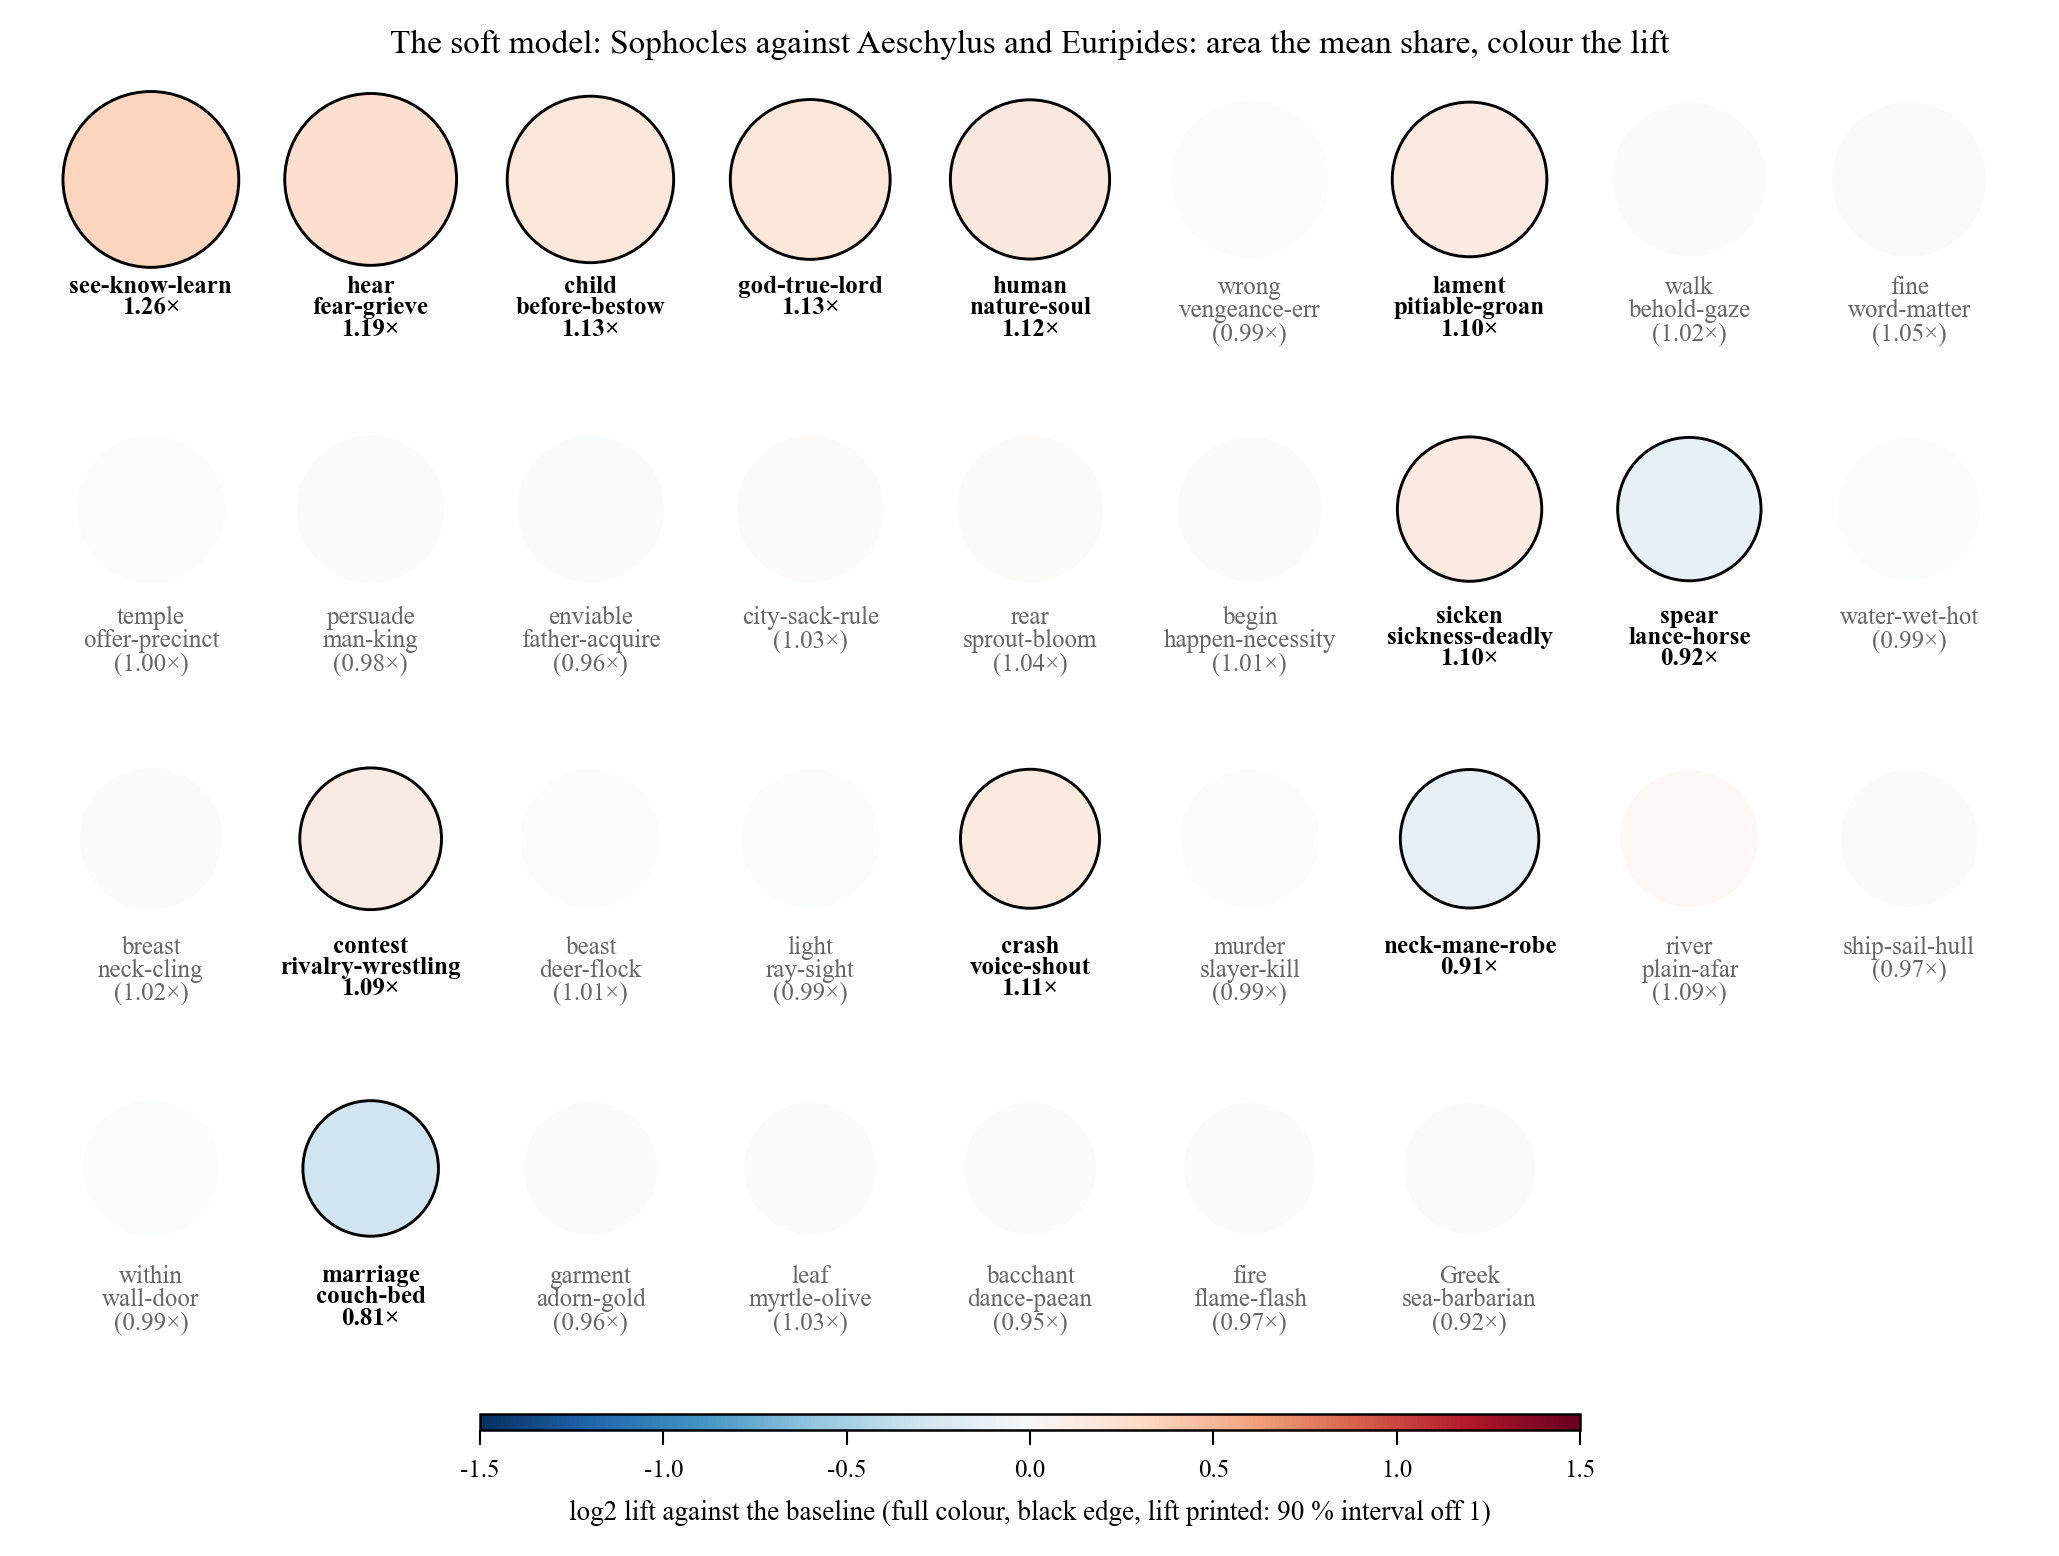
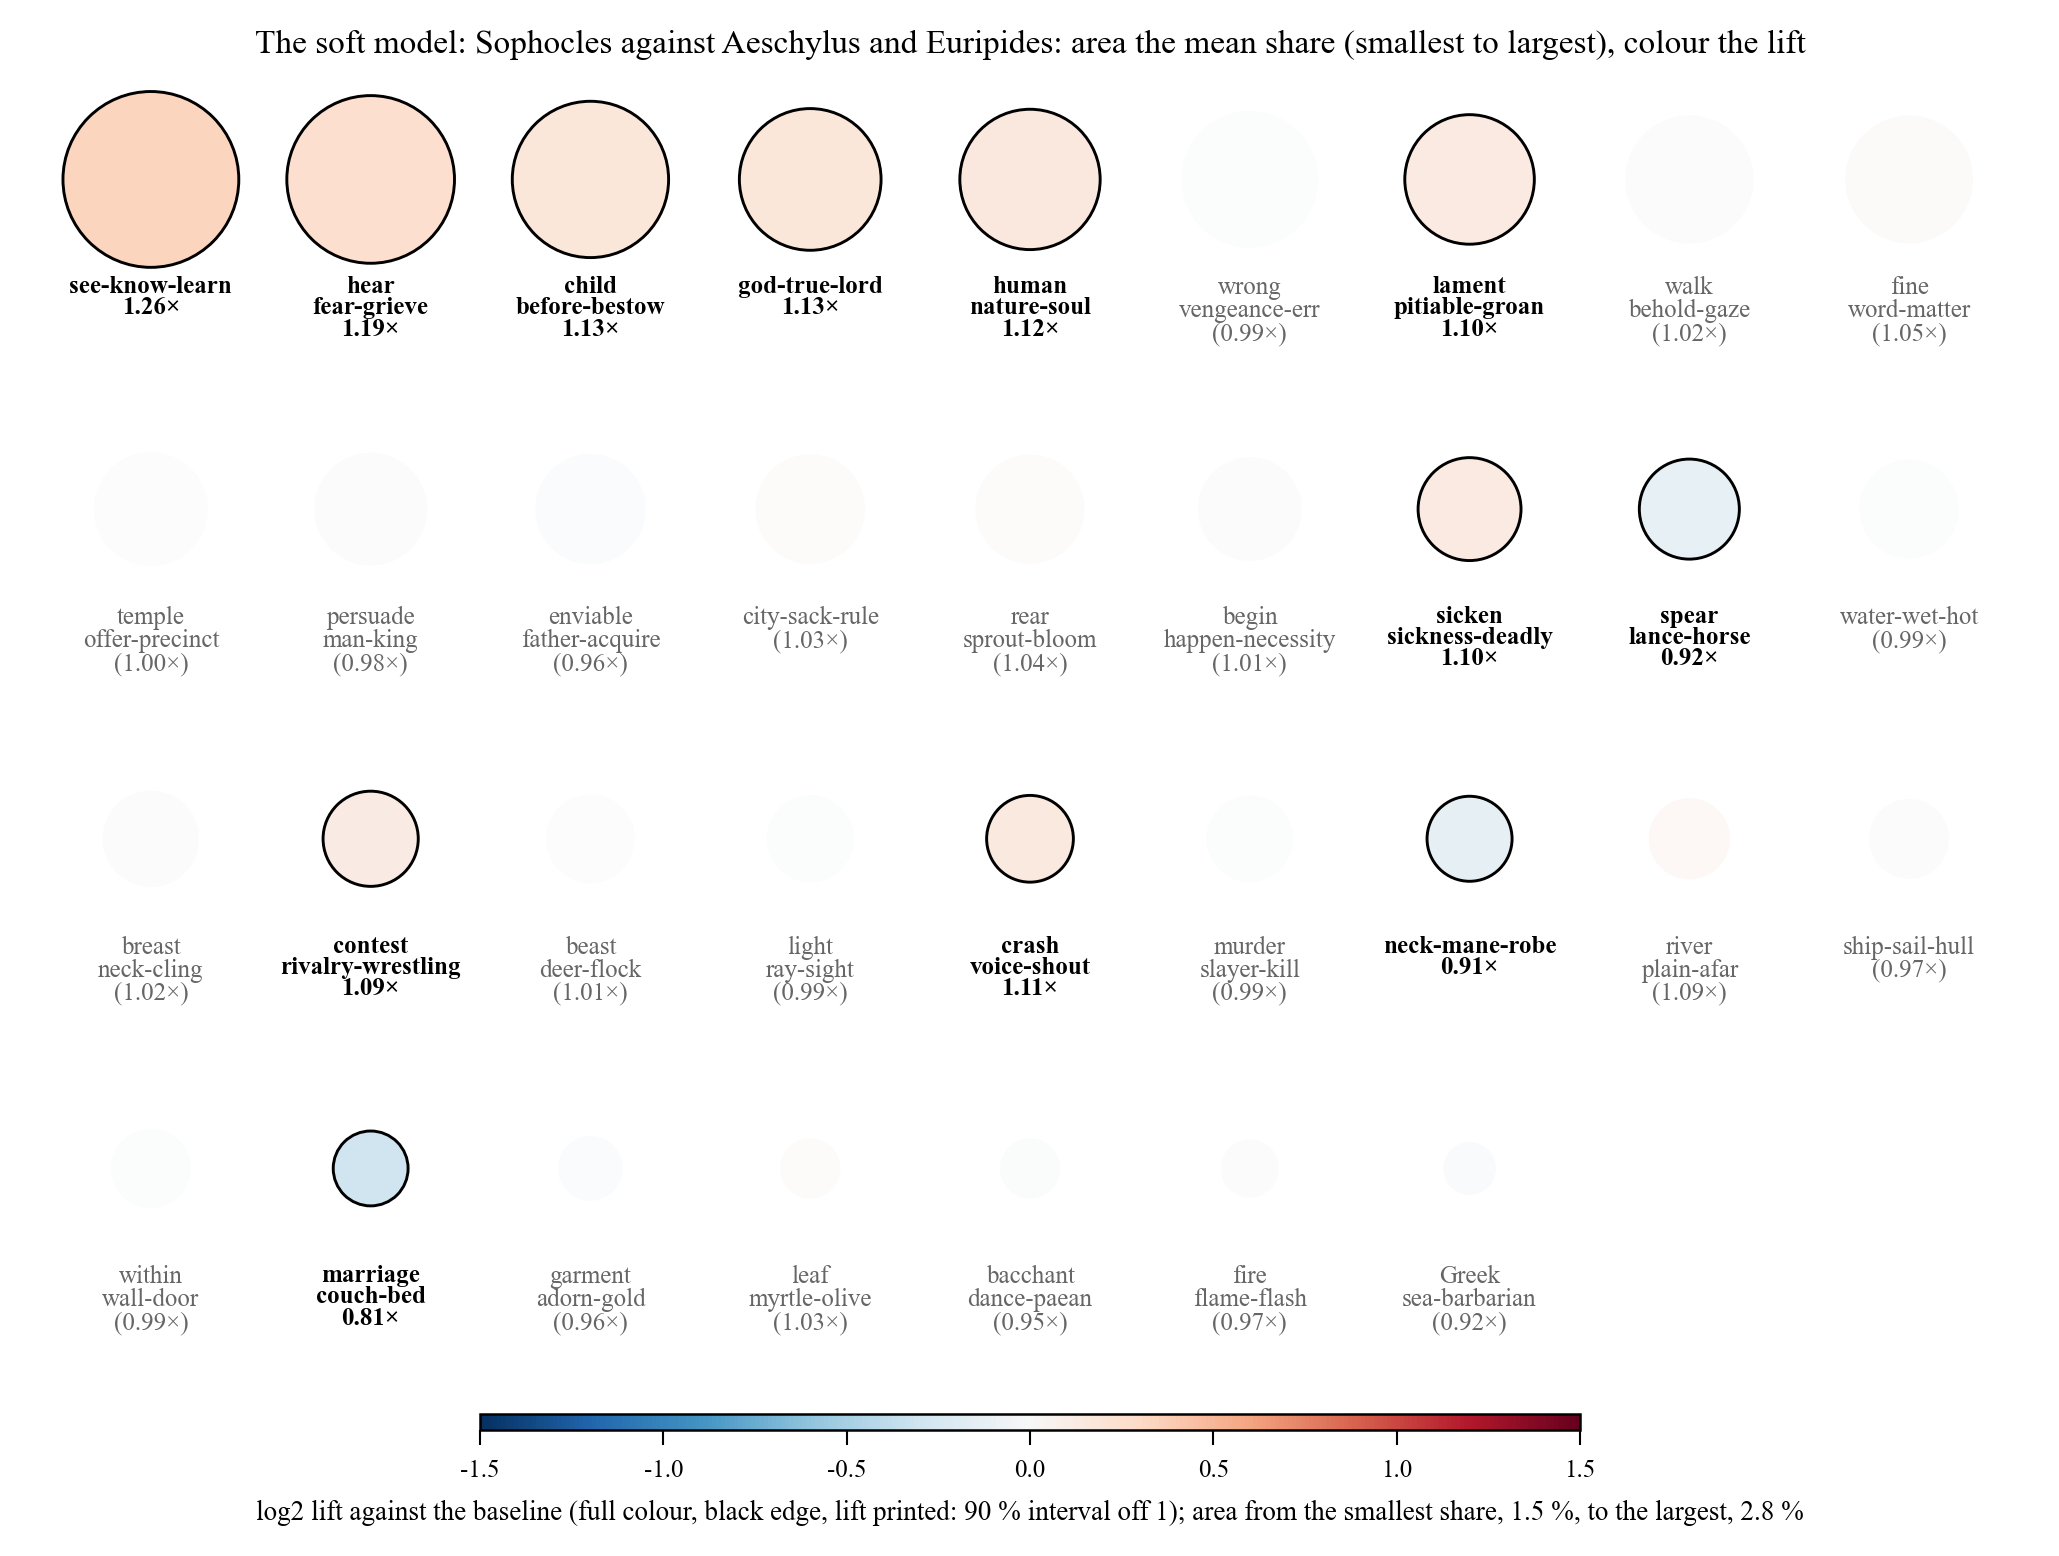
Circle figures: area scaled from the smallest share to the largest
The shares of 34-38 topics lie within a factor of two or three of each
other, so circles proportional to the share itself all looked alike.

Claude-Session: https://claude.ai/code/session_01KHbh4th1Ts9ASiaGg39JgA

diff --git a/scripts/topic_circles.py b/scripts/topic_circles.py
@@ -120,7 +120,11 @@ def draw(table, title, topics, path, columns=9):
     share = table["rate_focus"].to_numpy()
     order = np.argsort(-share)
     rows = int(np.ceil(len(topics) / columns))
-    radius = 0.4 * np.sqrt(share / share.max())              # cell of the grid = 1 x 1.5, label under the circle
+    # the area runs linearly from the smallest share (a small circle) to the largest (0.4 radius, in a 1 x 1.5 grid
+    # cell with the label under the circle): the shares of 34-38 topics lie within a factor of two or three of each
+    # other, so circles proportional to the share itself would all look alike
+    spread = (share - share.min()) / max(share.max() - share.min(), 1e-12)
+    radius = np.sqrt(0.12 ** 2 + (0.4 ** 2 - 0.12 ** 2) * spread)
     significant = ((table["lift_q05"] > 1) | (table["lift_q95"] < 1)).to_numpy()
     lift = table["lift"].to_numpy()
     width_units, height_units = columns, 1.5 * rows + 0.3
@@ -141,7 +145,8 @@ def draw(table, title, topics, path, columns=9):
     ax.set_aspect("equal"); ax.axis("off")
     sm = plt.cm.ScalarMappable(norm=norm, cmap=cmap); sm.set_array([])
     bar = fig.colorbar(sm, ax=ax, orientation="horizontal", fraction=0.05, pad=0.01, aspect=70, shrink=0.55)
-    bar.set_label("log2 lift against the baseline (full colour, black edge, lift printed: 90 % interval off 1)", fontsize=6.5)
+    bar.set_label(f"log2 lift against the baseline (full colour, black edge, lift printed: 90 % interval off 1); "
+                  f"area from the smallest share, {100 * share.min():.1f} %, to the largest, {100 * share.max():.1f} %", fontsize=6.5)
     bar.ax.tick_params(labelsize=6)
     fig.savefig(path, bbox_inches="tight")
     plt.close(fig)
@@ -190,7 +195,7 @@ def main():
 
     focus_name = {"walk": "the walk", "sophocles": "Sophocles"}
     for (focus, base), table in tables.items():
-        title = f"The topics of {focus_name[focus]} against {baseline_name[base]}: area the share, colour the lift"
+        title = f"The topics of {focus_name[focus]} against {baseline_name[base]}: area the share (smallest to largest), colour the lift"
         draw(table, title, topics, os.path.join(a.figures, f"hard_circles_{focus}_vs_{base}.png"))
     for (focus, base), t in tables.items():
         sig = t[(t.lift_q05 > 1) | (t.lift_q95 < 1)].sort_values("lift", ascending=False)

diff --git a/scripts/soft_circles.py b/scripts/soft_circles.py
@@ -37,7 +37,7 @@ def main():
         if rows.empty:
             continue
         rows = rows.set_index("topic").loc[topics].reset_index()
-        title = f"The soft model: {focus_name[focus]} against {BASELINE[base]}: area the mean share, colour the lift"
+        title = f"The soft model: {focus_name[focus]} against {BASELINE[base]}: area the mean share (smallest to largest), colour the lift"
         draw(rows, title, topics, os.path.join(a.figures, f"soft_circles_{focus}_vs_{base}.png")); n += 1
     print(f"wrote {n} figures soft_circles_<focus>_vs_<baseline>.png to {a.figures}", flush=True)
 
